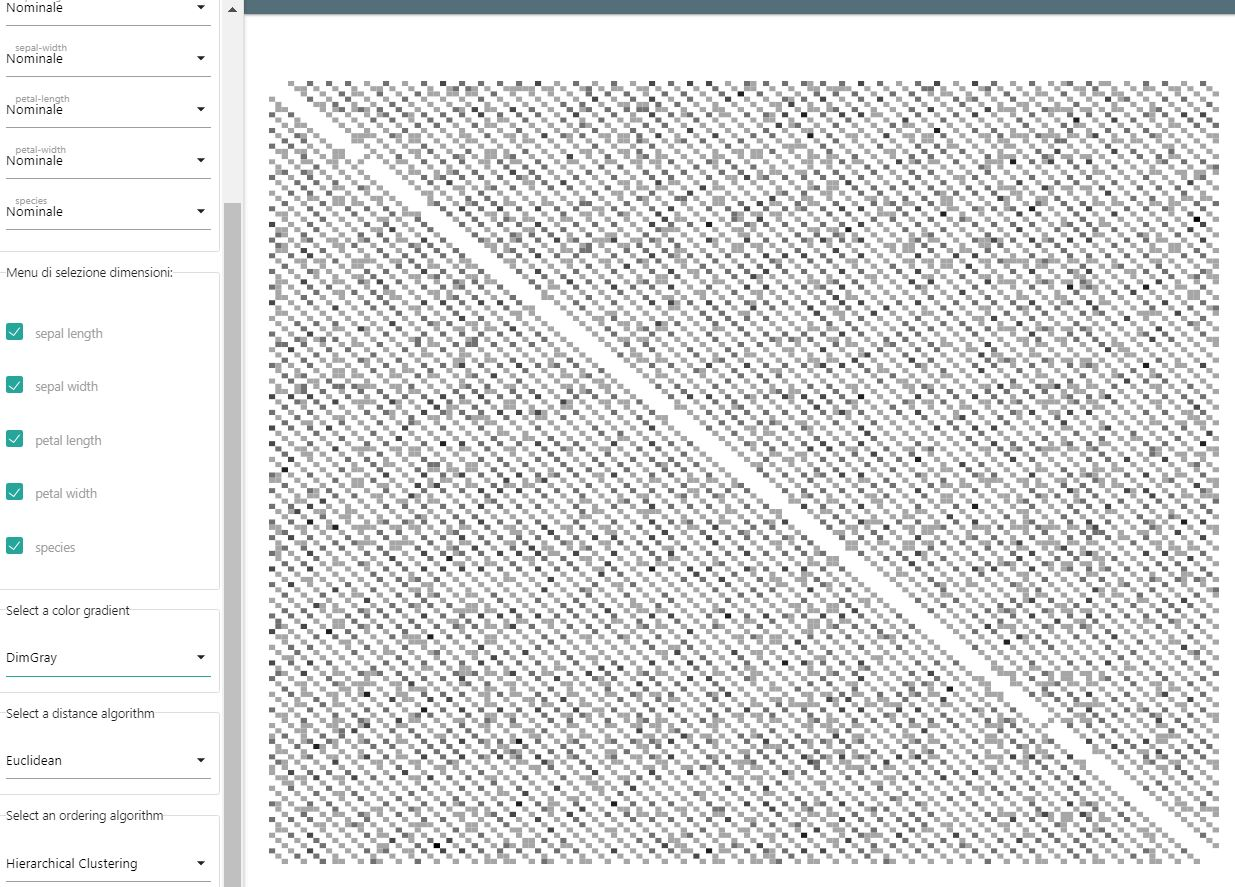
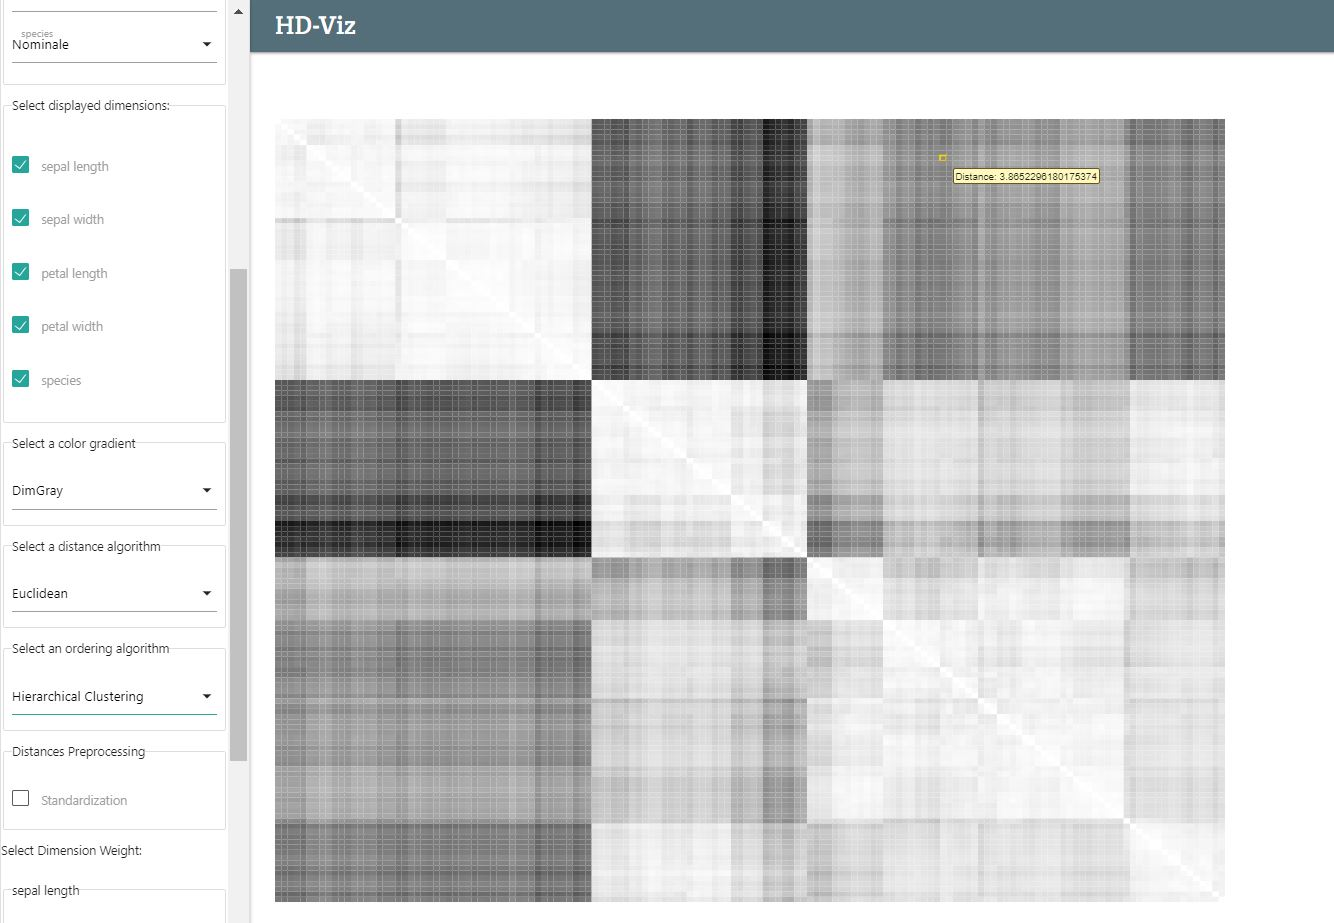
servizio fotografico

diff --git a/esterni/manuale_utente/src/3_funzionalita.tex b/esterni/manuale_utente/src/3_funzionalita.tex
@@ -89,7 +89,7 @@ Quando si va a dare colore alla lunghezza dei sepali, il risultato è il seguent
 \end{figure}
 
 
-Qui invece vi è un esempio con un \glossario{dataset} da 1000 records. È possibile cambiare le dimensioni rappresentate escludendone una ed aggiungendone un'altra, come rappresentato in figura.
+È possibile cambiare le dimensioni rappresentate escludendone una ed aggiungendone un'altra, cliccando sulla checkbox associata alla dimensione che vogliamo escludere/aggiungere.
 
 \begin{figure}[H]
 	\centering
@@ -100,17 +100,18 @@ Qui invece vi è un esempio con un \glossario{dataset} da 1000 records. È possi
 
 \paragraph{Distance Map}
     \label{par:vis_distance}
-Si occupa di misurare la prossimità fra due unità statistiche adottando diversi algoritmi.\\
-Dopo aver selezionato il grafico DistanceMap in alto a sinistra, i vari algoritmi compariranno nel menu sottostante. Qui ad esempio si mostra come appare il dataset dell'Iris
-dopo aver selezionato il grafico DistanceMap:
+Si occupa di misurare la similarità di due unità statistiche adottando diversi algoritmi di calcolo.\\
+Dopo aver selezionato la visualizzazione Distance Map in alto a sinistra, varie opzioni per la manipolazione delle distanze compaiono nel menu sottostante. Qui ad esempio si mostra come appare il dataset dell'Iris
+dopo aver selezionato la visualizzazione Distance Map e modificato opportunamente i metadati di tipo:
 
 \begin{figure}[H]
 	\centering
 	\includegraphics[width=18cm]{src/img/dm/iris_base_dm.jpg}
-	\caption{DistanceMap applicata all'Iris}
+	\caption{Distance Map applicata all'Iris}
 \end{figure}
 
-Comer per ScatterPlot, è possibile manipolare il dataset tramite le impostazioni presenti a sinistra, nonchè manipolare più impostazioni per ottenere risultati differenti.\\
+Come per ScatterPlot, è possibile ridurre il dataset tramite le impostazioni presenti a sinistra.
+Inoltre, è possibile manipolare impostazioni come l'algoritmo utilizzato per il calcolo della distanza, per l'assegnazione di pesi alle dimensioni, per standardizzare i dati e per clusterizzare unità statistiche tra loro vicine. Ogni manipolazione modifica dinamicamente la visualizzazione, permettendo all'analista di estrarre informazioni dai dati.\\
 Di seguito per esempio si mostra come appare il dataset dell'Iris dopo aver selezionato come colore la scala di grigi, e l'ordinamento "Hierarichal Clustering".
 
 
@@ -123,10 +124,8 @@ Di seguito per esempio si mostra come appare il dataset dell'Iris dopo aver sele
 
 \paragraph{Force Field}
     \label{par:vis_force_field}
-Il grafico \glossario{Force Field} traduce le distanze nello spazio a molte dimensioni in forze di attrazione e repulsione tra i punti proiettati nello spazio. 
-Questo grafico esegue una riduzione dimensionale preservando, o addirittura evidenziando, le strutture presenti nei dati. Più semplicemente, le entità vengono
-rappersentate tramite nodi, e le linee che le uniscono rappresentano le connessioni, o forze di attrazione. Al caricamento del grafico i punti si muovono in maniera
-casuale in cui i punti si spostano in base alle forze a cui sono soggetti. 
+Il grafico \glossario{Force Field} traduce le distanze tra unità statistiche in forze di attrazione e repulsione tra queste unità. Permette di rappresentare proiettate nello spazio le unità statistiche sotto forma di nodi e le distanze tra loro come archi. 
+Questo grafico esegue una riduzione dimensionale preservando, o addirittura evidenziando, le strutture ed i cluster presenti nei dati.  Al caricamento del grafico i punti si dispongono nello spazio in base alle forze a cui sono soggetti. 
 
 \begin{figure}[H]
 	\centering
@@ -134,7 +133,7 @@ casuale in cui i punti si spostano in base alle forze a cui sono soggetti.
 	\caption{ForceField applicata all'Iris - caricamento}
 \end{figure}
 
-Dopo poco si raggiunge una condizione di equilibrio stabile dove si evidenzia la geometria. 
+Dopo poco si raggiunge una condizione di equilibrio. 
 
 \begin{figure}[H]
 	\centering
@@ -143,7 +142,7 @@ Dopo poco si raggiunge una condizione di equilibrio stabile dove si evidenzia la
 \end{figure}
 
 
-Come per gli altri grafici sarà possibile manipolare il dataset ottenendo risultati differenti, come di seguito. 
+Come per gli altri grafici è possibile manipolare il dataset ottenendo risultati differenti. Per esempio si può scalare la forza di attrazione tra nodi e si possono tagliare gli archi che collegano nodi con distanze al di fuori di quelle specificate
 
 \begin{figure}[H]
 	\centering
@@ -173,7 +172,7 @@ come rappresentato di seguito:
 	\caption{ForceField applicata all'Iris - modifica force range e force intensity}
 \end{figure}
 
-È anche possibile selezionare un punto e allontanarlo dal centro:
+È anche possibile interagire con i nodi e ridisporre dinamicamente i punti:
 
 \begin{figure}[H]
 	\centering
@@ -184,9 +183,8 @@ come rappresentato di seguito:
 \paragraph{HeatMap}
     \label{par:vis_heatmap}
 
-Il grafico \glossario{Heat map} trasforma la distanza tra i punti i colori più o meno intensi, facendo così capire quali oggetti sono vicini tra loro e quali sono distanti. \\
-Come per gli altri grafici è possibile usufruire delle impostazioni nel menu a sinistra per poter modificare il grafico. Qui di seguito per esempio si mostra la differenza 
-tra la Heat Map base, e la Heat Map con colori in scala di grigi:
+Il grafico \glossario{Heat map} trasforma i diversi valori delle dimensioni del dataset in colori più o meno intensi, permettendo di evidenziare eventuali ripetizioni o pattern all'interno del dataset. \\
+Come per gli altri grafici è possibile usufruire delle impostazioni nel menu a sinistra per poter modificare il grafico. Qui di seguito si mostra la differenza tra scale cromatiche differenti:
 
 \begin{figure}[H]
 	\centering
